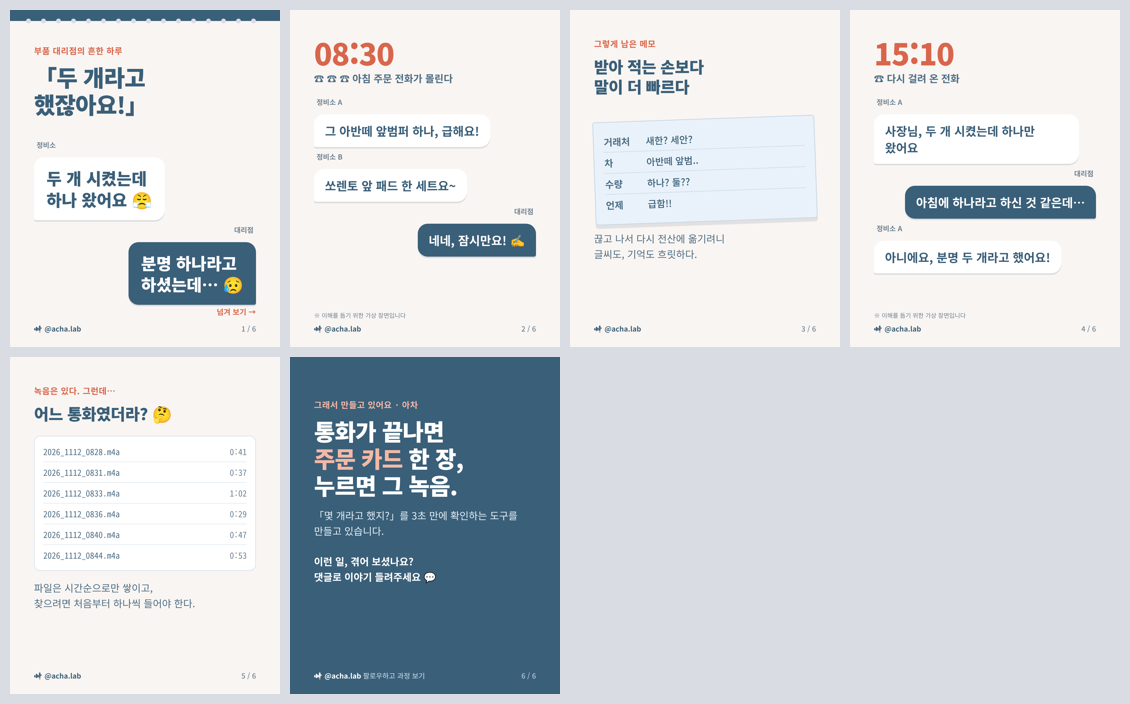
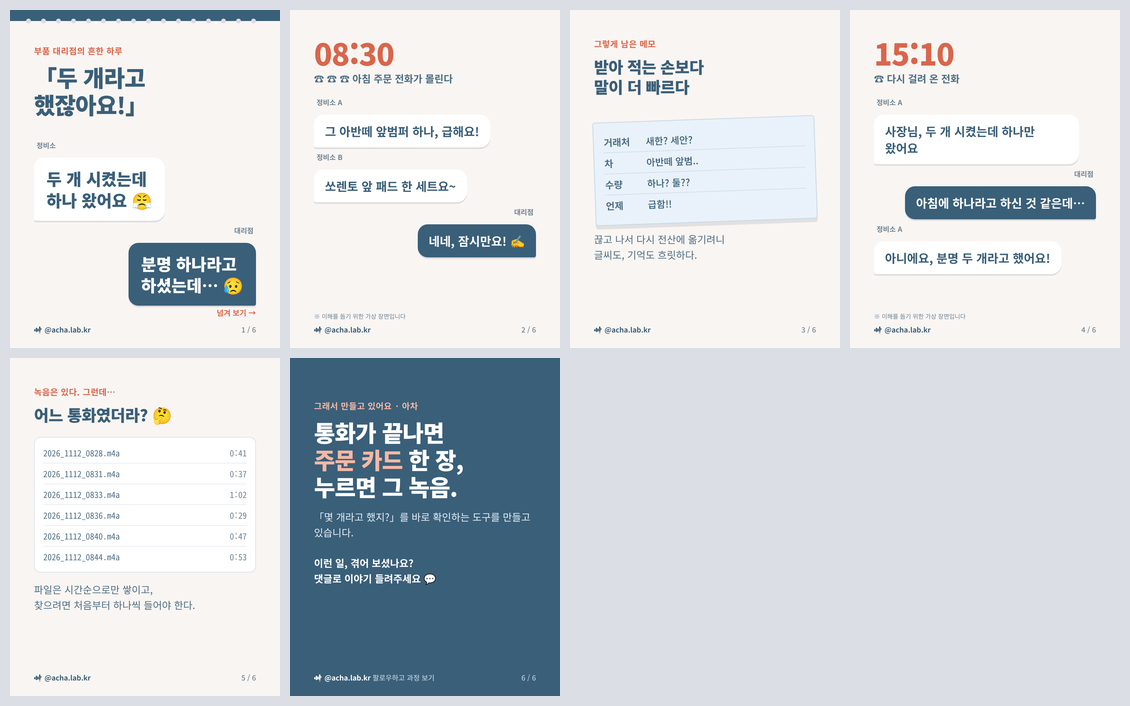
docs: 공감 카드뉴스 검토 반영 — 「3초」 빼고 게시 글에 이름 「아차」
AI-작성: Claude(Opus 5.5) · 마케팅 작업방

Claude-Session: https://claude.ai/code/session_01MEELtzTUQq3yB6rtSi8ES1

diff --git a/work/02-마케팅-강현/asset/W47/02-공감카드뉴스/cards.html b/work/02-마케팅-강현/asset/W47/02-공감카드뉴스/cards.html
@@ -92,7 +92,7 @@
 <div class="slide navy">
   <div class="kicker mt-m">그래서 만들고 있어요 · 아차</div>
   <h1>통화가 끝나면<br><em>주문 카드</em> 한 장,<br>누르면 그 녹음.</h1>
-  <p class="lead">「몇 개라고 했지?」를 3초 만에 확인하는 도구를 만들고 있습니다.</p>
+  <p class="lead">「몇 개라고 했지?」를 바로 확인하는 도구를 만들고 있습니다.</p>
   <p class="lead" style="margin-top:60px;color:#fff;font-weight:700">이런 일, 겪어 보셨나요?<br>댓글로 이야기 들려주세요 💬</p>
   <div class="foot"><span><b>@acha.lab.kr</b> 팔로우하고 과정 보기</span><span>6 / 6</span></div>
 </div>

diff --git a/work/02-마케팅-강현/LOG.md b/work/02-마케팅-강현/LOG.md
@@ -4,6 +4,15 @@
 
 <!-- 새 기록은 이 줄 바로 아래에 -->
 
+## 2026-11-20 22:32 KST · 공감 카드뉴스 검토 반영 — 「3초」 빼고 게시 글에 이름 「아차」
+- 돌린 사람 · 도구: 금*현(iiankeum) · Claude(Opus 5.5) · 마케팅 작업방
+- 한 일: W47 공감 카드뉴스 6장째 문구 「3초 만에 확인」을 「바로 확인」으로 바꿔 다시 뽑았다. 게시 글에 「도구, 「아차」를 만들고 있어요」로 이름을 넣었다. 미리보기 그림의 옛 핸들도 새로 뽑아 고쳤다.
+- 왜: 3초는 잰 적 없는 숫자라 약속처럼 읽힌다. 게시 글에 이름이 없어 계정과 이어지지 않았다. 금*현 님이 두 가지 다 고치라고 했다(「둘 다 ㄱ」).
+- 어떻게: `cards.html` · `글.md` 고친 뒤 `node _tools/render.js` 로 다시 뽑음.
+- 결과물: [asset/W47/02-공감카드뉴스/](asset/W47/02-공감카드뉴스/글.md)
+- AI 가 판단한 것 · 사람이 확인할 것: 없음(금*현 검토 끝).
+- 다음 할 일: 인스타 게시 → `docs/promotion/` 기록.
+
 ## 2026-11-19 00:58 KST · 저장소 README 「한 줄 소개」 채움
 - 돌린 사람 · 도구: 금*현(iiankeum) · Claude(Opus 5.5) · 마케팅 작업방
 - 한 일: 저장소 첫 화면 README 의 「한 줄 소개」가 처음 틀(「아이디어 확정 후 작성」) 그대로여서 제품명 「아차」와 한 줄 설명으로 바꿨다.

diff --git a/work/02-마케팅-강현/asset/W47/02-공감카드뉴스/글.md b/work/02-마케팅-강현/asset/W47/02-공감카드뉴스/글.md
@@ -1,6 +1,6 @@
 # W47 · 11/18(수) · 문제 공감 카드뉴스
 
-> AI 초안 · 돌린 사람: 금*현 · Claude · 2026-11-13 · 검토 전
+> AI 초안 · 돌린 사람: 금*현 · Claude · 2026-11-13 · 검토: 금*현 2026-11-20
 
 - 채널: 인스타그램 캐러셀 (6장)
 - 이미지: `card-01.png` ~ `card-06.png` (순서대로)
@@ -19,7 +19,7 @@
 🎧 녹음은 있는데 파일이 시간순으로만 쌓여 찾을 수가 없죠
 
 저희는 이 장면을 바꾸려고
-통화가 끝나면 주문 카드 한 장, 헷갈리는 칸을 누르면 그때 그 녹음이 바로 나오는 도구를 만들고 있어요.
+통화가 끝나면 주문 카드 한 장, 헷갈리는 칸을 누르면 그때 그 녹음이 바로 나오는 도구, 「아차」를 만들고 있어요.
 
 비슷한 일 겪어 보셨다면 댓글로 이야기 들려주세요 💬
 현장 이야기가 저희에겐 가장 좋은 설계도예요.
